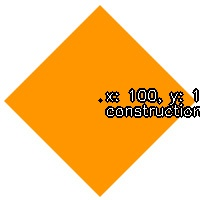
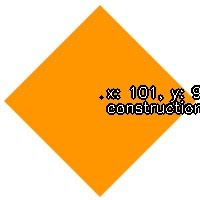
completed_part_2

Changed region(s): [[0.48, 0.42, 1.0, 0.6]]

diff --git a/homework/hw2/hw2.py b/homework/hw2/hw2.py
@@ -155,12 +155,12 @@ def identify_stop_sign(img: np.ndarray) -> tuple:
         avg_x = np.mean(x).astype(int)
         avg_y = np.mean(y).astype(int)
 
-        # Offsets to fine-tune circle position
-        offset_x = -1 # Move left
-        offset_y = 3 # Move down
-
-        avg_x += offset_x
-        avg_y += offset_y
+        # # Offsets to fine-tune circle position
+        # offset_x = -1 # Move left
+        # offset_y = 3 # Move down
+        #
+        # avg_x += offset_x
+        # avg_y += offset_y
 
         return avg_x, avg_y, 'stop'
 
@@ -205,12 +205,12 @@ def identify_yield(img: np.ndarray) -> tuple:
         avg_x = np.mean(x).astype(int)
         avg_y = np.mean(y).astype(int)
 
-        # Offsets to fine-tune circle position
-        offset_x = -1 # Move left
-        offset_y = 3 # Move down
-
-        avg_x += offset_x
-        avg_y += offset_y
+        # # Offsets to fine-tune circle position
+        # offset_x = -1 # Move left
+        # offset_y = 3 # Move down
+        #
+        # avg_x += offset_x
+        # avg_y += offset_y
 
         return avg_x, avg_y, 'yield'
 
@@ -254,13 +254,13 @@ def identify_construction(img: np.ndarray) -> tuple:
         avg_x = np.mean(x).astype(int)
         avg_y = np.mean(y).astype(int)
 
-        # Offsets to fine-tune circle position
-        offset_x = -1  # Move left
-        offset_y = 3  # Move down
-
-        # Apply offsets
-        avg_x += offset_x
-        avg_y += offset_y
+        # # Offsets to fine-tune circle position
+        # offset_x = -1  # Move left
+        # offset_y = 3  # Move down
+        #
+        # # Apply offsets
+        # avg_x += offset_x
+        # avg_y += offset_y
 
         # Return the detected sign center coordinates and label
         return avg_x, avg_y, 'construction'
@@ -276,7 +276,45 @@ def identify_warning(img: np.ndarray) -> tuple:
     :return: tuple with x, y, and sign name
              (x, y, 'warning')
     """
-    raise NotImplemented
+    # Copy the image
+    img_cp = img.copy()
+
+    hsv = cv2.cvtColor(img_cp, cv2.COLOR_BGR2HSV)
+
+    # Define the color range for detecting yellow
+    lower_yellow = np.array([20, 100, 100])
+    upper_yellow = np.array([30, 255, 255])
+
+    # Define the color range for detecting yellow
+    mask = cv2.inRange(hsv, lower_yellow, upper_yellow)
+
+    # Apply the mask to the image
+    masked_img = cv2.bitwise_and(img_cp, img_cp, mask=mask)
+
+    # Detect sign lines from the masked image
+    lines = sign_lines(masked_img)
+
+    if lines is None:
+        return 0, 0, 'None'
+
+    # Get x and y coordinates from detected lines
+    x, y = sign_axis(lines)
+
+    # Calculate the average position
+    if len(x) > 0 and len(y) > 0:
+        avg_x = np.mean(x).astype(int)
+        avg_y = np.mean(y).astype(int)
+
+        # # Offsets to fine-tune circle position
+        # offset_x = 1  # Move right
+        # offset_y = 1  # Move down
+        #
+        # avg_x += offset_x
+        # avg_y += offset_y
+
+        return avg_x, avg_y, 'rr_crossing'
+
+    return 0, 0, 'None'
 
 
 def identify_rr_crossing(img: np.ndarray) -> tuple:
@@ -315,12 +353,12 @@ def identify_rr_crossing(img: np.ndarray) -> tuple:
         avg_x = np.mean(x).astype(int)
         avg_y = np.mean(y).astype(int)
 
-        # Offsets to fine-tune circle position
-        offset_x = 11  # Move right
-        offset_y = -5  # Move up
-
-        avg_x += offset_x
-        avg_y += offset_y
+        # # Offsets to fine-tune circle position
+        # offset_x = 11  # Move right
+        # offset_y = -5  # Move up
+        #
+        # avg_x += offset_x
+        # avg_y += offset_y
 
         return avg_x, avg_y, 'rr_crossing'
 
@@ -364,8 +402,8 @@ def identify_services(img: np.ndarray) -> tuple:
         avg_y = np.mean(y).astype(int)
 
         # Offsets to fine-tune circle position
-        offset_x = 11  # Move right
-        offset_y = -5  # Move up
+        offset_x = 1  # Move right
+        offset_y = 1  # Move down
 
         avg_x += offset_x
         avg_y += offset_y

diff --git a/homework/hw2/wrapper.py b/homework/hw2/wrapper.py
@@ -44,32 +44,17 @@ def part1() -> None:
         img_out = mark_signs(tl_image, (x, y), color)
         cv2.imwrite(f"{tl.split('/')[1].split('.')[0]}_txt.jpg", img_out)
 
-# def part2() -> None:
-#     sign_images = ['images/construction.jpg', 'images/regulatory.jpg', 'images/regulatory_yield.jpg',
-#                    'images/rr_crossing.jpg', 'images/services.jpg', 'images/warning.jpg']
-#
-#     file_name = ['construction_txt.jpg', 'regulatory_txt.jpg', 'regulatory_yield_txt.jpg',
-#                  'rr_crossing_txt.jpg', 'services_txt.jpg', 'warning_txt.jpg']
-#
-#     sign_functions = [identify_construction] # , identify_stop_sign, identify_yield,
-#                       # identify_rr_crossing, identify_services, identify_warning]
-#
-#     for img_in, file_out, function_call in zip(sign_images, file_name, sign_functions):
-#         img = cv2.imread(img_in)
-#         x, y, name = function_call(img)
-#
-#         img_out = mark_signs(img, (x, y), state=name)
-#         cv2.imwrite(file_out, img_out)
 
 def part2() -> None:
-    # Only include the construction image and its output file
-    sign_images = ['images/services.jpg']
-    file_name = ['services_txt.jpg']
+    sign_images = ['images/construction.jpg', 'images/regulatory.jpg', 'images/regulatory_yield.jpg',
+                   'images/rr_crossing.jpg', 'images/services.jpg', 'images/warning.jpg']
 
-    # Only include the function for identifying construction signs
-    sign_functions = [identify_services]
+    file_name = ['construction_txt.jpg', 'regulatory_txt.jpg', 'regulatory_yield_txt.jpg',
+                 'rr_crossing_txt.jpg', 'services_txt.jpg', 'warning_txt.jpg']
 
-    # Process only the construction sign
+    sign_functions = [identify_construction, identify_stop_sign, identify_yield,
+                      identify_rr_crossing, identify_services, identify_warning]
+
     for img_in, file_out, function_call in zip(sign_images, file_name, sign_functions):
         img = cv2.imread(img_in)
         x, y, name = function_call(img)
